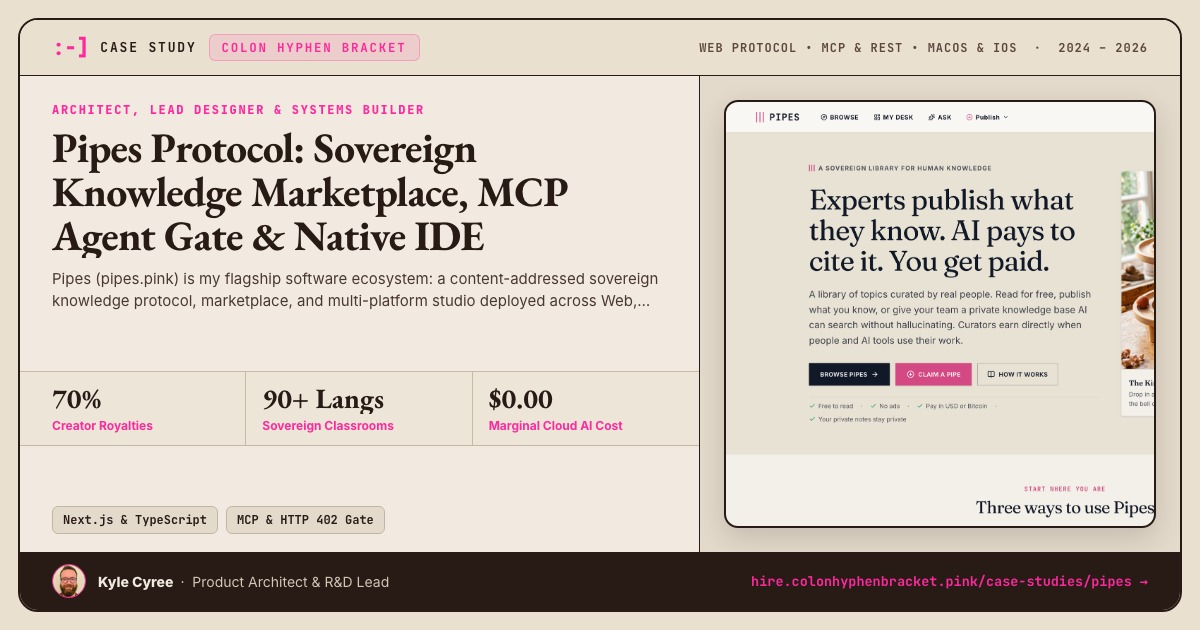
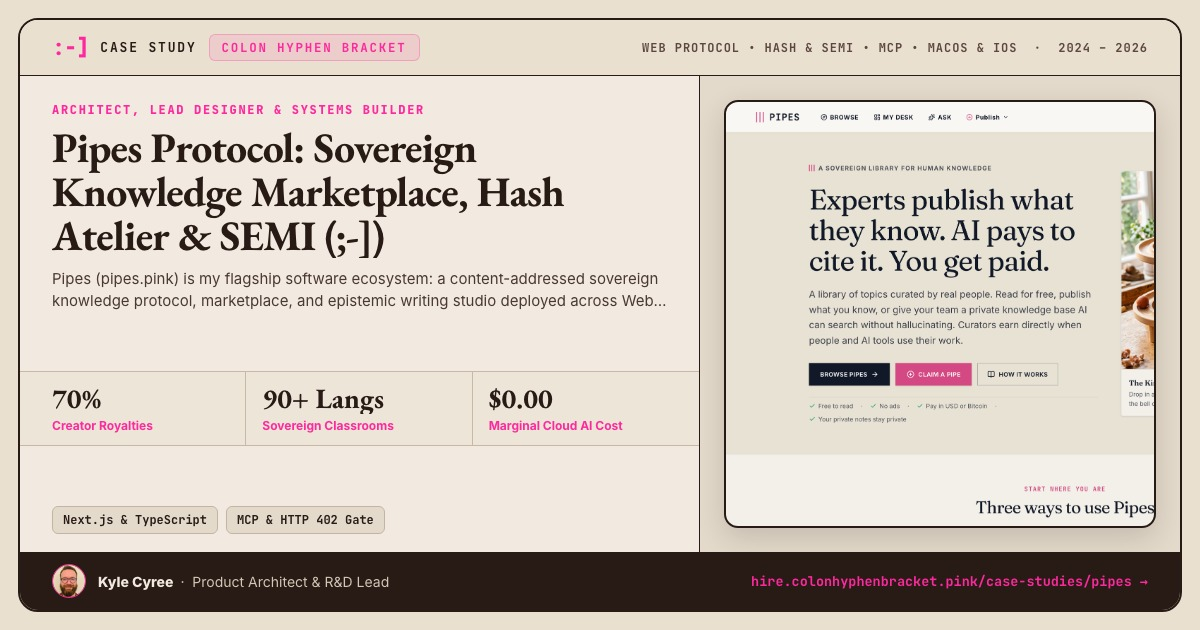
fix(pipes): fix dev-hub & bitcoin contrast, add integrated Hash + SEMI atelier, dark espresso frames & 65ch measure

diff --git a/client/src/pages/portfolio.tsx b/client/src/pages/portfolio.tsx
@@ -435,14 +435,14 @@ export default function PortfolioPage() {
                 </span>
                 <span className="text-[#D3C7B5]">&bull;</span>
                 <Badge variant="outline" className="border-[#D3C7B5] text-xs font-sans uppercase font-bold tracking-wider bg-[#F2EAE0] text-[#281B16]">
-                  Web Protocol &bull; MCP &amp; REST &bull; macOS &amp; iOS
+                  Web Protocol &bull; Hash &amp; SEMI (;-]) &bull; MCP &amp; macOS
                 </Badge>
               </div>
               <h3 className="text-4xl sm:text-5xl lg:text-6xl font-serif font-bold text-[#281B16] tracking-tight">
-                Pipes.Pink: Sovereign Knowledge Protocol, Marketplace &amp; Native IDE
+                Pipes.Pink: Sovereign Knowledge Protocol, Hash Atelier &amp; SEMI (;-])
               </h3>
-              <p className="text-xl sm:text-2xl text-[#6B554D] font-sans leading-relaxed">
-                My flagship product—designed, architected, and built solo from zero to production. Experts package verified primary sources into cryptographically deeded namespaces (<code className="font-mono text-lg bg-[#EAE0D0] px-2 py-0.5 rounded">pipe\bitcoin</code>, <code className="font-mono text-lg bg-[#EAE0D0] px-2 py-0.5 rounded">pipe\my-first-bitcoin</code>), AI agents pay 70% micro-royalties to cite them via Model Context Protocol (MCP) and HTTP 402 gates, and organizations mount zero-hallucination WebGPU + DuckDB-WASM tutors in 90+ languages across Web, macOS (<code className="font-mono text-lg bg-[#EAE0D0] px-2 py-0.5 rounded">! BANG</code> IDE), and iOS.
+              <p className="text-xl sm:text-2xl text-[#6B554D] font-sans leading-relaxed max-w-[65ch]">
+                My flagship product—designed, architected, and built solo from zero to production. Creators draft inside the redesigned <strong>Hash Sanctuary</strong> alongside <strong>SEMI (;-])</strong>, a Socratic editor-in-residence with persistent memory, then seal verified primary sources into deeded namespaces (<code className="font-mono text-lg bg-[#EAE0D0] px-2 py-0.5 rounded">pipe\bitcoin</code>, <code className="font-mono text-lg bg-[#EAE0D0] px-2 py-0.5 rounded">pipe\my-first-bitcoin</code>) where AI agents pay 70% micro-royalties via MCP &amp; HTTP 402 gates.
               </p>
             </div>
 
@@ -456,14 +456,14 @@ export default function PortfolioPage() {
           <Link href="/case-studies/pipes">
             <div className="group cursor-pointer space-y-8">
               <div className="grid grid-cols-1 lg:grid-cols-12 gap-8 lg:gap-12 items-start">
-                <div className="lg:col-span-7 space-y-3">
-                  <div className="rounded-3xl overflow-hidden shadow-2xl border border-[#D3C7B5] bg-[#EAE0D0]">
+                <div className="lg:col-span-6 space-y-3">
+                  <div className="rounded-3xl overflow-hidden shadow-2xl border border-[#3D2C24] bg-[#231814] p-3 sm:p-4">
                     <img
                       loading="lazy"
                       decoding="async"
                       src="/images/pipes/pipes-hero.png"
                       alt="Pipes.Pink Web Protocol: A Sovereign Library for Human Knowledge"
-                      className="w-full h-auto object-cover group-hover:scale-[1.01] transition-transform duration-500"
+                      className="w-full h-auto object-cover rounded-2xl shadow-lg group-hover:scale-[1.01] transition-transform duration-500"
                     />
                   </div>
                   <div className="space-y-1 px-1">
@@ -476,22 +476,22 @@ export default function PortfolioPage() {
                   </div>
                 </div>
 
-                <div className="lg:col-span-5 space-y-3">
-                  <div className="rounded-3xl overflow-hidden shadow-2xl border border-[#D3C7B5] bg-[#EAE0D0]">
+                <div className="lg:col-span-6 space-y-3">
+                  <div className="rounded-3xl overflow-hidden shadow-2xl border border-[#3D2C24] bg-[#231814] p-3 sm:p-4">
                     <img
                       loading="lazy"
                       decoding="async"
-                      src="/images/pipes/desktop-mac-bang-ide.png"
-                      alt="Pipes macOS Desktop App: Native ! BANG IDE & Catalogue"
-                      className="w-full h-auto object-cover group-hover:scale-[1.01] transition-transform duration-500"
+                      src="/images/pipes/pipes-hash-studio-semi.png"
+                      alt="Integrated Hash Studio and SEMI (;-]) Socratic Sparring Atelier inside Pipes.Pink"
+                      className="w-full h-auto object-cover rounded-2xl shadow-lg group-hover:scale-[1.01] transition-transform duration-500"
                     />
                   </div>
                   <div className="space-y-1 px-1">
                     <span className="font-sans text-xs sm:text-sm uppercase font-bold tracking-wider text-[#281B16] block">
-                      macOS Native &bull; ! BANG Curator &amp; Developer IDE
+                      Integrated Hash Sanctuary &bull; SEMI (;-]) Socratic Sparring
                     </span>
                     <p className="text-sm text-[#6B554D] font-sans">
-                      Tauri 2.0 + Rust desktop studio with 500k-record DuckDB analysis, folder watcher sync, and agency CMS deployment.
+                      Redesigned epistemic writing vault inside Pipes with live Socratic sparring from SEMI (;-]), 1-click Substack ingestion, and cryptographic "Seal to Pipe" publishing.
                     </p>
                   </div>
                 </div>
@@ -501,9 +501,9 @@ export default function PortfolioPage() {
                 <div className="flex flex-wrap items-center gap-5 sm:gap-8">
                   <span className="font-bold text-[#281B16]">Built &amp; Shipped Solo</span>
                   <span>&bull;</span>
-                  <span className="font-bold text-[#281B16]">MCP &amp; HTTP 402 Agent Gate</span>
+                  <span className="font-bold text-[#281B16]">Hash &amp; SEMI (;-]) Atelier</span>
                   <span>&bull;</span>
-                  <span className="font-bold text-[#281B16]">WebGPU + DuckDB-WASM</span>
+                  <span className="font-bold text-[#281B16]">MCP &amp; HTTP 402 Agent Gate</span>
                   <span>&bull;</span>
                   <span className="font-bold text-[#281B16]">Web, macOS (Tauri/Rust) &amp; iOS</span>
                 </div>
@@ -686,7 +686,7 @@ export default function PortfolioPage() {
             {[
               { v: "670+", l: "Public commits on GitHub" },
               { v: "8", l: "Public repositories" },
-              { v: "3", l: "Open-source projects (MIT / AGPL)" },
+              { v: "4", l: "Featured open-source repositories" },
               { v: "TS", l: "TypeScript first, Python and Rust when needed" },
             ].map((x) => (
               <div key={x.l} className="space-y-2 md:px-8 first:md:pl-0">
@@ -696,25 +696,28 @@ export default function PortfolioPage() {
             ))}
           </dl>
 
-          <ul className="grid grid-cols-1 md:grid-cols-3 gap-x-12 gap-y-4">
+          <ul className="grid grid-cols-1 md:grid-cols-2 lg:grid-cols-4 gap-x-10 gap-y-4">
             {[
               { repo: "marigold", license: "AGPL-3.0", desc: "Voter-roll search and audit that runs entirely in the browser on DuckDB-WASM. No personal data leaves the machine.", stack: "TypeScript · DuckDB-WASM · Apache Arrow" },
-              { repo: "greater-than", license: "MIT", desc: "Support bots that run the model in the browser with WebGPU and Transformers.js, so there's no per-message cloud cost.", stack: "TypeScript · WebGPU · Transformers.js" },
-              { repo: "pipes-native", license: "Source available", desc: "The Pipes Mac and iPhone apps: local notes, local search, and local AI.", stack: "TypeScript · Tauri · Rust · Swift" },
+              { repo: "greater-than", license: "MIT", desc: "Sovereign-by-default support bots that run inference in the browser with WebGPU and Transformers.js at $0 cloud cost.", stack: "TypeScript · WebGPU · Transformers.js" },
+              { repo: "pipes-native", license: "Source available", desc: "The Pipes macOS (! BANG IDE) and iOS companion apps: local folder sync, DuckDB analytics, and sovereign studio.", stack: "TypeScript · Tauri · Rust · Swift" },
+              { repo: "antigravity-skills", license: "Open Source", desc: "Curated collection of production Agent Skills, MCP workflows, and deterministic harnesses for autonomous coding agents.", stack: "Agent Harnesses · MCP · Prompt Engineering" },
             ].map((r) => (
               <li key={r.repo}>
                 <a
                   href={`https://github.com/rorshockbtc/${r.repo}`}
                   target="_blank"
                   rel="noopener noreferrer"
-                  className="group block space-y-3 py-6 border-b border-[#D3C7B5] hover:border-[#FE299E] transition-colors"
+                  className="group h-full flex flex-col justify-between space-y-3 py-6 border-b border-[#D3C7B5] hover:border-[#FE299E] transition-colors"
                 >
-                  <span className="flex items-baseline justify-between gap-4">
-                    <span className="font-serif text-2xl font-bold text-[#281B16] group-hover:text-[#FE299E] transition-colors">{r.repo}</span>
-                    <span className="text-xs font-sans font-bold uppercase tracking-wider text-[#8A736A]">{r.license}</span>
-                  </span>
-                  <span className="block text-lg text-[#5C4840] font-sans leading-relaxed">{r.desc}</span>
-                  <span className="block text-sm font-sans font-semibold text-[#281B16]">{r.stack} &rarr;</span>
+                  <div className="space-y-3">
+                    <span className="flex items-baseline justify-between gap-3">
+                      <span className="font-serif text-xl lg:text-2xl font-bold text-[#281B16] group-hover:text-[#FE299E] transition-colors">{r.repo}</span>
+                      <span className="text-[11px] font-sans font-bold uppercase tracking-wider text-[#8A736A] shrink-0">{r.license}</span>
+                    </span>
+                    <span className="block text-base text-[#5C4840] font-sans leading-relaxed">{r.desc}</span>
+                  </div>
+                  <span className="block text-xs sm:text-sm font-sans font-semibold text-[#281B16] pt-2">{r.stack} &rarr;</span>
                 </a>
               </li>
             ))}

diff --git a/client/src/data/case-studies.ts b/client/src/data/case-studies.ts
@@ -54,10 +54,10 @@ export const CASE_STUDIES: Record<string, CaseStudyData> = {
   pipes: {
     slug: "pipes",
     client: "Colon Hyphen Bracket",
-    title: "Pipes Protocol: Sovereign Knowledge Marketplace, MCP Agent Gate & Native IDE",
-    subtitle: "Flagship Showcase • Web Protocol (pipes.pink), MCP/HTTP 402 Agent Economics, WebGPU Classrooms & Native macOS IDE",
+    title: "Pipes Protocol: Sovereign Knowledge Marketplace, Hash Atelier & SEMI (;-])",
+    subtitle: "Flagship Showcase • Web Protocol (pipes.pink), Integrated Hash Studio + SEMI Socratic Agent, MCP/HTTP 402 Gate & macOS IDE",
     role: "Architect, Lead Designer & Systems Builder",
-    scaleBadge: "Web Protocol • MCP & REST • macOS & iOS",
+    scaleBadge: "Web Protocol • Hash & SEMI • MCP • macOS & iOS",
     timeline: "2024 – 2026",
     heroImage: "/images/pipes/pipes-hero.png",
     galleryImages: [
@@ -68,6 +68,12 @@ export const CASE_STUDIES: Record<string, CaseStudyData> = {
         tag: "Web Protocol",
       },
       {
+        src: "/images/pipes/pipes-hash-studio-semi.png",
+        title: "Integrated Hash Studio & SEMI (;-]) Socratic Sparring Atelier",
+        caption: "Redesigned inside Pipes (/write): a private-by-default epistemic vault with live Socratic sparring from SEMI (;-]), 1-click Substack ingestion, and cryptographic 'Seal to Pipe' publishing.",
+        tag: "Hash & SEMI (;-])",
+      },
+      {
         src: "/images/pipes/pipes-marketplace.png",
         title: "Explore Marketplace: Discover & Claim Curated Knowledge Canons",
         caption: "Namespace discovery directory across Foundations, Systems, Craft, Frontier, and Civic domains—filtering deeply curated (100+ source) active knowledge streams.",
@@ -75,8 +81,8 @@ export const CASE_STUDIES: Record<string, CaseStudyData> = {
       },
       {
         src: "/images/pipes/pipes-namespace-bitcoin.png",
-        title: "Sovereign Pipe Room: pipe\\bitcoin & Greater WebGPU Engine",
-        caption: "Claimed namespace room housing 120 cryptographically sealed primary sources with interactive Library inspection, Podcast synthesis, and zero-hallucination Greater (>) WebGPU chat.",
+        title: "Sovereign Pipe Room: pipe\\bitcoin Primary-Source Library",
+        caption: "Claimed namespace room housing cryptographically sealed BIP specifications and primary sources with interactive Library inspection, Greater (>) WebGPU chat, and Ask Semi.",
         tag: "Sovereign Namespace",
       },
       {
@@ -86,16 +92,16 @@ export const CASE_STUDIES: Record<string, CaseStudyData> = {
         tag: "90+ Language Classroom",
       },
       {
+        src: "/images/pipes/pipes-dev-mcp-hub.png",
+        title: "Developer Hub (dev-hub v1.0): Immutable Context Graphs for Agents",
+        caption: "REST and Model Context Protocol (MCP) developer portal providing SHA-256 content-addressed context graphs, 1-click MCP setup, and WebGPU edge indexing.",
+        tag: "Developer Hub",
+      },
+      {
         src: "/images/pipes/pipes-economics.png",
         title: "Curator Economics & HTTP 402 MCP Agent Gate",
         caption: "Sovereign payout engine enforcing a 70% creator revenue share and HTTP 402 payment gates for Claude Desktop, Cursor IDE, and autonomous agent queries in USD or Bitcoin Sats.",
         tag: "MCP & HTTP 402 Gate",
-      },
-      {
-        src: "/images/pipes/pipes-dev-mcp-hub.png",
-        title: "Developer Hub (dev-hub v1.0): Immutable Context Graphs for Agents",
-        caption: "REST and Model Context Protocol (MCP) developer portal providing SHA-256 content-addressed context graphs, subscription credit economics, and WebGPU edge indexing.",
-        tag: "Developer Hub",
       },
       {
         src: "/images/pipes/pipes-podcast-pavilion.png",
@@ -111,26 +117,26 @@ export const CASE_STUDIES: Record<string, CaseStudyData> = {
       },
     ],
     executiveSummary:
-      "Pipes (pipes.pink) is my flagship software ecosystem: a content-addressed sovereign knowledge protocol, marketplace, and multi-platform studio deployed across Web, Model Context Protocol (MCP), native macOS Desktop (Tauri/Rust), and native iOS (Swift/SwiftUI). Experts curate primary sources into deeded namespaces (like pipe\\bitcoin and pipe\\my-first-bitcoin), AI agents pay micro-royalties via HTTP 402 gates to cite verified truth, and educators deploy zero-hallucination WebGPU + DuckDB-WASM tutors across 90+ languages at $0 marginal cloud inference cost.",
+      "Pipes (pipes.pink) is my flagship software ecosystem: a content-addressed sovereign knowledge protocol, marketplace, and epistemic writing studio deployed across Web, Model Context Protocol (MCP), native macOS Desktop (Tauri/Rust), and iOS. Inside Pipes, creators draft in the redesigned Hash Sanctuary alongside SEMI (;-])—a Socratic editor-in-residence with persistent memory—before sealing verified monographs into SHA-256 namespaces (like pipe\\bitcoin and pipe\\my-first-bitcoin) where AI agents pay 70% micro-royalties via HTTP 402 gates.",
     challenge:
       "As foundation LLMs drown in synthetic slop and suffer from model collapse, verified human-curated primary sources are the rarest asset on the internet. Yet domain experts, authors, and open-source curricula have their work scraped for free by AI labs while enterprises burn thousands of dollars per month on fragile cloud RAG pipelines that still hallucinate.",
     solution:
-      "Architected a full-stack sovereign knowledge protocol and marketplace: (1) SHA-256 content-addressed Merkle-DAG namespaces where curators own deeded property and earn 70% royalties via an HTTP 402 / MCP agent gate; (2) the turnkey Greater (>) embeddable tutor powered by in-browser DuckDB-WASM and WebGPU for $0-compute, 90+ language classroom localization; (3) the Sovereign Podcast Pavilion for autonomous 2-host neural audio synthesis; and (4) the native macOS ! BANG IDE for local folder-watching, 500k-record DuckDB analytics, and agency CMS deployment.",
+      "Architected a unified, four-pillar ecosystem: (1) the integrated Hash Sanctuary (/write) and SEMI (;-]) Socratic sparring partner for private thinking, 3D Galaxy exploration, and 1-click Substack ingestion; (2) SHA-256 Merkle-DAG namespaces where curators own deeded property and earn 70% royalties via an HTTP 402 / MCP agent gate; (3) the turnkey Greater (>) WebGPU + DuckDB-WASM classroom tutor across 90+ languages; and (4) the Sovereign Podcast Pavilion (Semi & Greater 2-host neural audio) plus native macOS ! BANG IDE.",
     uiUxCraft:
-      "Designed a high-craft editorial and technical interface spanning public knowledge discovery, interactive namespace rooms (Library, Greater Chat, Mount & Desktop, Podcast), enterprise curriculum translation studios, and a native macOS desktop cockpit. Coupled with a runtime CSS variable engine that adapts across 6 distinct aesthetic personas without page reloads.",
+      "Designed a cohesive editorial and technical interface spanning the redesigned Hash & SEMI Socratic Atelier, interactive namespace rooms (Library, Greater Chat, Podcast), enterprise 90+ language curriculum studios, and a native macOS desktop cockpit—coupled with a runtime CSS variable engine that adapts across 6 distinct aesthetic personas.",
     systemsArchitecture:
-      "Engineered a SHA-256 Merkle-DAG knowledge graph (the Ampersand Graph) synchronized across PostgreSQL/Drizzle, local SQLite/Turso replicas, and in-browser DuckDB-WASM + WebGPU vector caches. Integrated Model Context Protocol (MCP) and HTTP 402 payment gates for Claude Desktop and Cursor IDE, Sanity CMS GROQ ingestion bridges, OpenTimestamps (OTS) cryptographic provenance, and non-custodial Bitcoin Lightning (Breez SDK) + USD royalty settlement.",
+      "Engineered a SHA-256 Merkle-DAG knowledge graph (the Ampersand Graph) synchronized across PostgreSQL/Drizzle, local SQLite/Turso replicas, and in-browser DuckDB-WASM + WebGPU vector caches. Integrated SEMI's persistent Socratic memory vault, Model Context Protocol (MCP) and HTTP 402 payment gates for Claude Desktop and Cursor IDE, Sanity CMS GROQ bridges, OpenTimestamps (OTS) provenance, and non-custodial Bitcoin Lightning + USD royalty settlement.",
     metrics: [
       { value: "70%", label: "Creator Royalties", subtext: "Deeded MCP & HTTP 402 split" },
       { value: "90+ Langs", label: "Sovereign Classrooms", subtext: "Turnkey Greater (>) WebGPU tutor" },
       { value: "$0.00", label: "Marginal Cloud AI Cost", subtext: "In-browser DuckDB-WASM + WebGPU" },
-      { value: "3 Platforms", label: "Unified Ecosystem", subtext: "Web Protocol, macOS IDE, iOS" },
+      { value: "Hash + SEMI", label: "Epistemic Atelier", subtext: "Socratic sparring & Seal-to-Pipe" },
     ],
     outcomes: [
-      "Designed and shipped the complete pipes.pink web protocol, Explore marketplace, Developer MCP Hub, Podcast Pavilion, and native macOS ! BANG IDE.",
+      "Unified the redesigned Hash writing sanctuary and SEMI (;-]) Socratic editor-in-residence directly into pipes.pink with 1-click 'Seal to Pipe' cryptographic publishing.",
+      "Designed and shipped the Explore marketplace, Developer MCP Hub, 2-Host Sovereign Podcast Pavilion (Semi & Greater), and native macOS ! BANG IDE.",
       "Built the turnkey pipe\\my-first-bitcoin classroom platform with 15-second CLI mounting (npx @pipes/greater), Sanity CMS ingestion, and 90+ language localization.",
       "Engineered the Curator Economics & HTTP 402 MCP Gate enabling creators to monetize autonomous AI agent citations across Claude Desktop, Cursor, and REST.",
-      "Eliminated recurring cloud RAG server bills by executing hybrid vector + keyword synthesis locally via DuckDB-WASM, WebGPU, and the deterministic Reference Library pattern.",
     ],
     technologies: ["Next.js & TypeScript", "MCP & HTTP 402 Gate", "WebGPU & DuckDB-WASM", "macOS Native (Tauri 2.0/Rust)", "iOS (Swift/SwiftUI)", "PostgreSQL / Drizzle / SQLite", "Bitcoin Lightning / Web Crypto"],
     liveUrl: "https://pipes.pink",

diff --git a/client/src/pages/case-study.tsx b/client/src/pages/case-study.tsx
@@ -193,11 +193,17 @@ export default function CaseStudyPage() {
           className="group relative rounded-3xl border border-[#D3C7B5] bg-[#F2EAE0] p-3 sm:p-6 shadow-xl overflow-hidden cursor-pointer"
           onClick={() => setActiveImageIndex(0)}
         >
-          <div className="relative aspect-[16/10] sm:aspect-[16/9] w-full bg-[#EAE0D0] rounded-2xl overflow-hidden flex items-center justify-center border border-[#D3C7B5]/60">
+          <div
+            className={`relative aspect-[16/10] sm:aspect-[16/9] w-full rounded-2xl overflow-hidden flex items-center justify-center border ${
+              study.slug === "pipes"
+                ? "bg-[#231814] border-[#3D2C24] shadow-inner"
+                : "bg-[#EAE0D0] border-[#D3C7B5]/60"
+            }`}
+          >
             <img loading="lazy" decoding="async"
               src={study.heroImage}
               alt={study.title}
-              className="w-full h-full object-contain p-2 sm:p-4 group-hover:scale-[1.02] transition-transform duration-500"
+              className="w-full h-full object-contain p-2 sm:p-4 drop-shadow-2xl group-hover:scale-[1.02] transition-transform duration-500"
             />
             <div className="absolute inset-0 bg-[#281B16]/0 group-hover:bg-[#281B16]/15 transition-colors flex items-center justify-center opacity-0 group-hover:opacity-100">
               <span className="px-4 py-2 rounded-full bg-[#F2EAE0]/95 text-[#281B16] text-xs font-sans font-bold shadow-lg flex items-center gap-2 transform translate-y-2 group-hover:translate-y-0 transition-all">
@@ -246,7 +252,7 @@ export default function CaseStudyPage() {
               <span className="font-sans text-[11px] uppercase tracking-[0.2em] font-bold text-[#FE299E]">
                 Executive Summary
               </span>
-              <p className="text-base sm:text-lg text-[#281B16] font-sans leading-relaxed">
+              <p className="text-base sm:text-lg text-[#281B16] font-sans leading-relaxed max-w-[65ch]">
                 {study.executiveSummary}
               </p>
             </div>
@@ -258,7 +264,7 @@ export default function CaseStudyPage() {
                   The Strategic Challenge
                 </h2>
               </div>
-              <p className="text-base text-[#6B554D] font-sans leading-relaxed pl-4 border-l-2 border-[#D3C7B5]">
+              <p className="text-base text-[#6B554D] font-sans leading-relaxed pl-4 border-l-2 border-[#D3C7B5] max-w-[65ch]">
                 {study.challenge}
               </p>
             </div>
@@ -270,7 +276,7 @@ export default function CaseStudyPage() {
                   The Systems Architecture Solution
                 </h2>
               </div>
-              <p className="text-base text-[#281B16]/90 font-sans leading-relaxed pl-4 border-l-2 border-[#FE299E]/40">
+              <p className="text-base text-[#281B16]/90 font-sans leading-relaxed pl-4 border-l-2 border-[#FE299E]/40 max-w-[65ch]">
                 {study.solution}
               </p>
             </div>
@@ -279,7 +285,7 @@ export default function CaseStudyPage() {
               <h3 className="text-lg font-serif font-bold text-[#281B16] tracking-tight">
                 Systems &amp; Protocol Execution
               </h3>
-              <p className="text-base text-[#6B554D] font-sans leading-relaxed">
+              <p className="text-base text-[#6B554D] font-sans leading-relaxed max-w-[65ch]">
                 {study.systemsArchitecture}
               </p>
             </div>
@@ -291,7 +297,7 @@ export default function CaseStudyPage() {
               <span className="font-sans text-[11px] uppercase tracking-[0.2em] font-bold text-[#FE299E]">
                 UI/UX Craft &amp; Psychology
               </span>
-              <p className="text-sm sm:text-base text-[#6B554D] font-sans leading-relaxed">
+              <p className="text-sm sm:text-base text-[#6B554D] font-sans leading-relaxed max-w-[60ch]">
                 {study.uiUxCraft}
               </p>
             </div>
@@ -347,7 +353,7 @@ export default function CaseStudyPage() {
               {study.codebaseBreakdown.headline}
             </h2>
             <div className="p-6 sm:p-8 rounded-3xl bg-[#F2EAE0] border border-[#D3C7B5] shadow-sm">
-              <p className="text-base sm:text-lg text-[#281B16] font-sans leading-relaxed italic">
+              <p className="text-base sm:text-lg text-[#281B16] font-sans leading-relaxed italic max-w-[75ch]">
                 &ldquo;{study.codebaseBreakdown.philosophy}&rdquo;
               </p>
             </div>
@@ -409,21 +415,25 @@ export default function CaseStudyPage() {
             </p>
           </div>
 
-          <div className="grid grid-cols-1 sm:grid-cols-2 lg:grid-cols-3 gap-4">
+          <div className="grid grid-cols-1 sm:grid-cols-2 lg:grid-cols-3 gap-5">
             {study.galleryImages.map((img, idx) => (
               <div
                 key={idx}
                 className="group rounded-2xl border border-[#D3C7B5] bg-[#F2EAE0] overflow-hidden cursor-pointer hover:border-[#FE299E] transition-all duration-300 shadow-sm hover:shadow-md flex flex-col justify-between"
                 onClick={() => setActiveImageIndex(idx)}
               >
-                <div className="relative aspect-[16/10] bg-[#EAE0D0] p-3 flex items-center justify-center border-b border-[#D3C7B5]">
+                <div
+                  className={`relative aspect-[16/10] p-3 flex items-center justify-center border-b border-[#D3C7B5] ${
+                    study.slug === "pipes" ? "bg-[#231814]" : "bg-[#EAE0D0]"
+                  }`}
+                >
                   <img
                     src={img.src}
                     alt={img.title}
-                    className="w-full h-full object-contain group-hover:scale-105 transition-transform duration-300"
+                    className="w-full h-full object-contain rounded-lg shadow-lg group-hover:scale-[1.03] transition-transform duration-300"
                     loading="lazy"
                   />
-                  <div className="absolute inset-0 bg-[#281B16]/0 group-hover:bg-[#281B16]/20 transition-colors flex items-center justify-center opacity-0 group-hover:opacity-100">
+                  <div className="absolute inset-0 bg-[#281B16]/0 group-hover:bg-[#281B16]/25 transition-colors flex items-center justify-center opacity-0 group-hover:opacity-100">
                     <span className="px-3 py-1.5 rounded-full bg-[#F2EAE0]/95 text-[#281B16] text-xs font-sans font-bold shadow-md flex items-center gap-1.5">
                       <ZoomIn className="w-3.5 h-3.5 text-[#FE299E]" /> Zoom
                     </span>
@@ -434,7 +444,7 @@ export default function CaseStudyPage() {
                   <div className="flex items-center justify-between gap-2">
                     <h3 className="font-sans font-bold text-xs text-[#281B16] truncate">{img.title}</h3>
                     {img.tag && (
-                      <Badge variant="outline" className="text-[10px] font-sans border-[#D3C7B5] text-[#6B554D]">
+                      <Badge variant="outline" className="text-[10px] font-sans border-[#D3C7B5] text-[#6B554D] shrink-0">
                         {img.tag}
                       </Badge>
                     )}
@@ -503,11 +513,15 @@ export default function CaseStudyPage() {
               </div>
             </div>
 
-            <div className="flex-1 overflow-auto bg-[#EAE0D0]/80 p-4 sm:p-6 flex items-center justify-center min-h-[350px]">
+            <div
+              className={`flex-1 overflow-auto p-4 sm:p-6 flex items-center justify-center min-h-[350px] ${
+                study.slug === "pipes" ? "bg-[#231814]" : "bg-[#EAE0D0]/80"
+              }`}
+            >
               <img loading="lazy" decoding="async"
                 src={study.galleryImages[activeImageIndex].src}
                 alt={study.galleryImages[activeImageIndex].title}
-                className="max-h-[68vh] w-auto max-w-full object-contain rounded-xl shadow-sm border border-[#D3C7B5]/60 bg-white"
+                className="max-h-[68vh] w-auto max-w-full object-contain rounded-xl shadow-2xl border border-[#D3C7B5]/40 bg-white"
               />
             </div>
 
